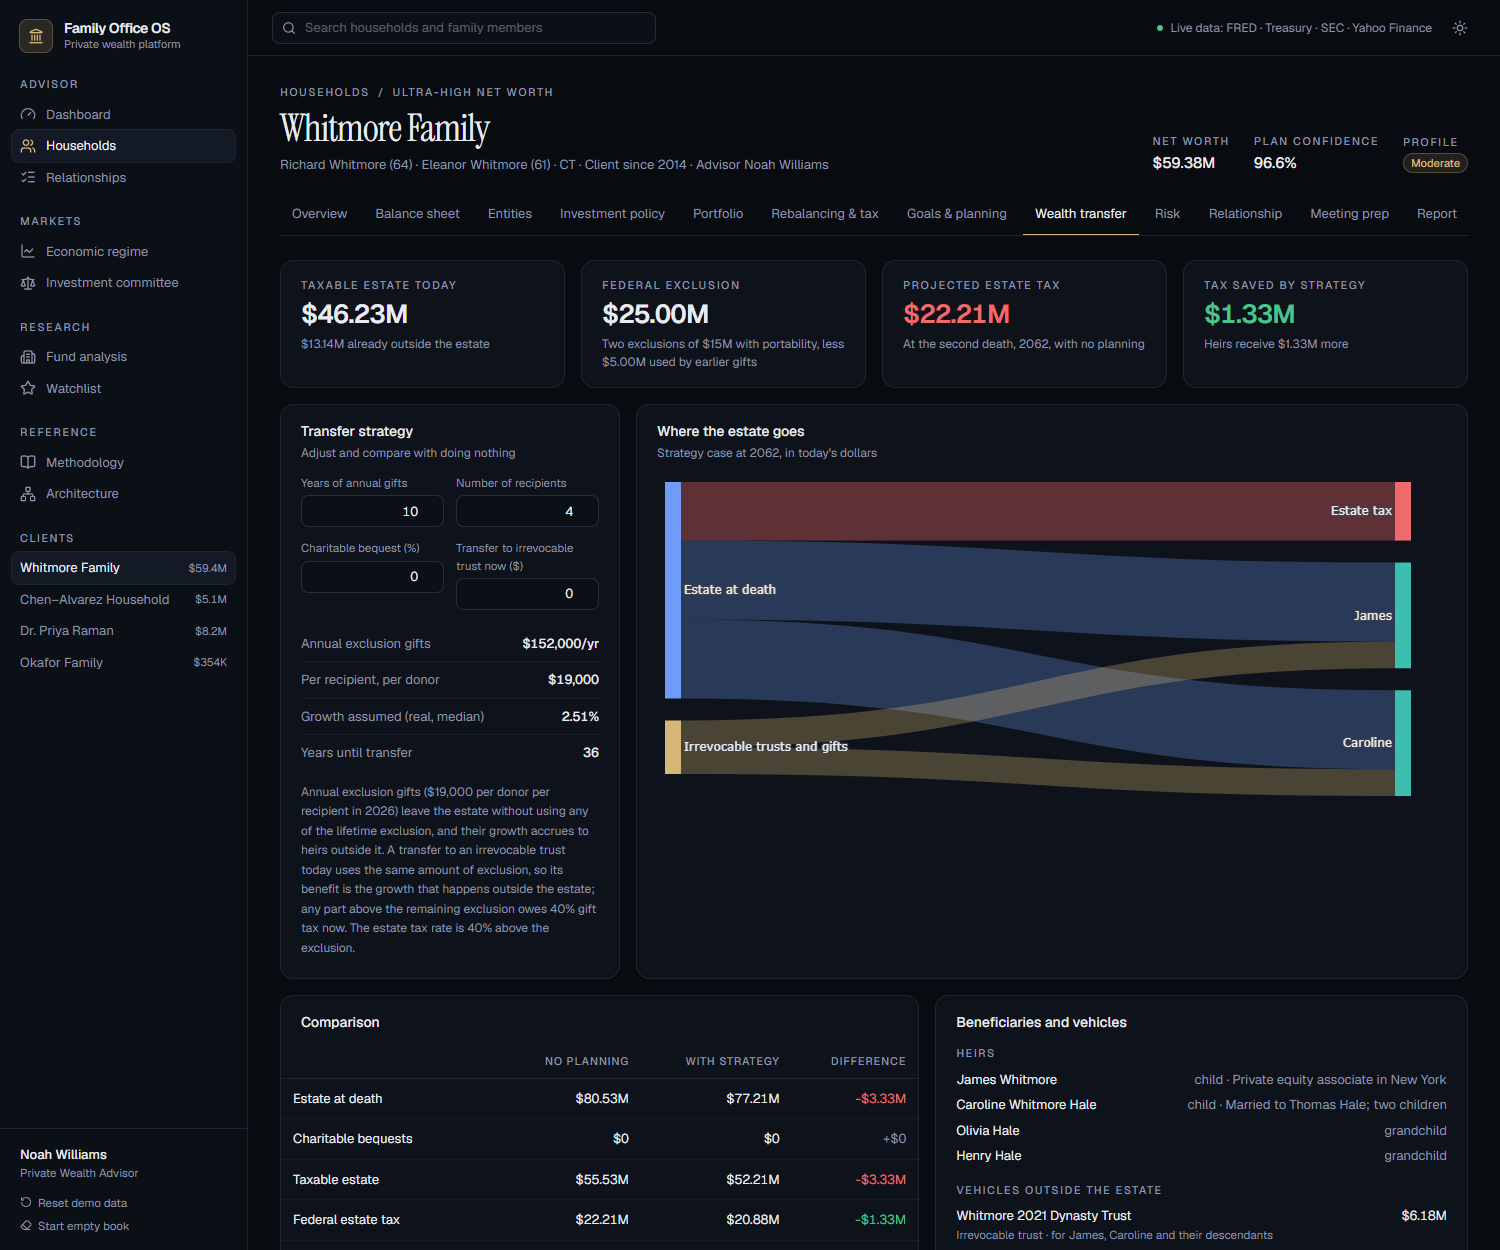
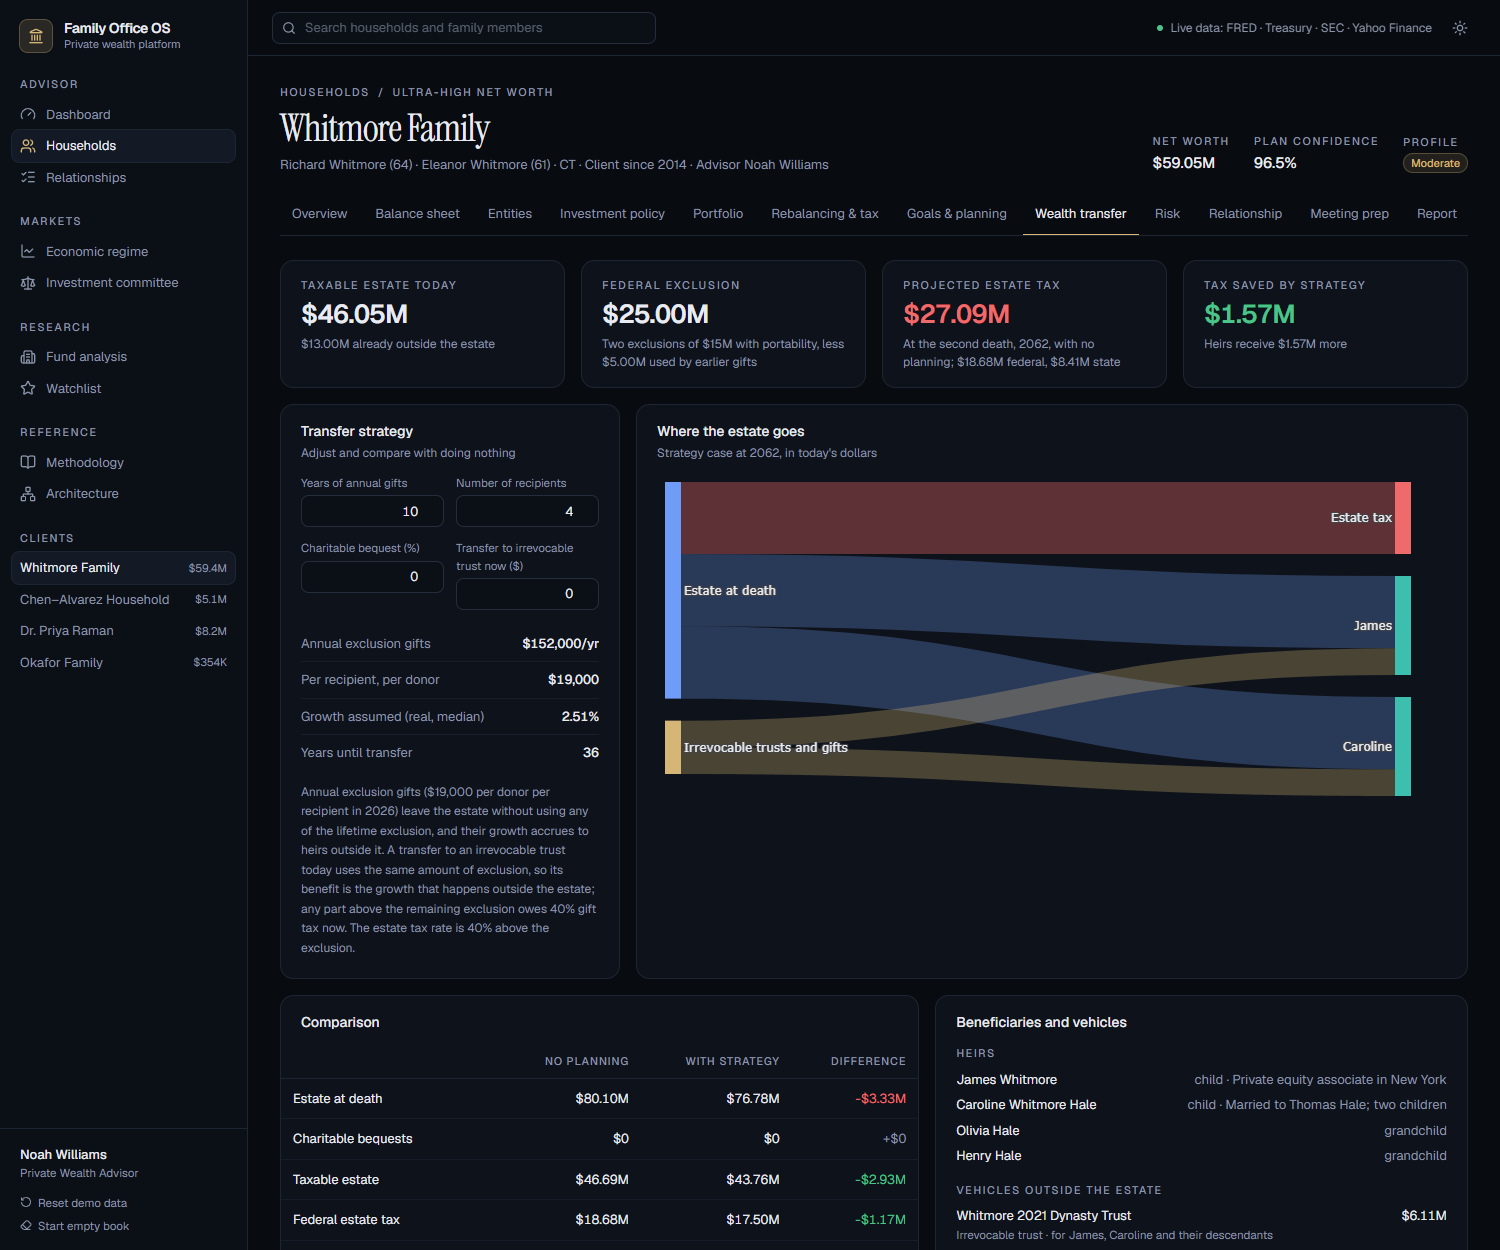
fix: connecticut estate tax, consistent heir asset growth

diff --git a/app/households/[id]/estate/page.tsx b/app/households/[id]/estate/page.tsx
@@ -23,7 +23,7 @@ export default function Estate() {
   const heirsNet = s.toHeirs - s.outsideEstate;
   const each = direct.length ? 1 / direct.length : 1;
   const links = [
-    { s: 0, t: 2, v: s.tax, color: "rgba(239,107,107,0.35)" },
+    { s: 0, t: 2, v: s.federalTax + s.stateTax, color: "rgba(239,107,107,0.35)" },
     { s: 0, t: 3, v: s.toCharity, color: "rgba(165,139,234,0.35)" },
     ...direct.map((_, i) => ({ s: 0, t: 4 + i, v: heirsNet * each, color: "rgba(111,156,246,0.28)" })),
     ...direct.map((_, i) => ({ s: 1, t: 4 + i, v: s.outsideEstate * each, color: "rgba(214,182,118,0.3)" })),
@@ -40,7 +40,7 @@ export default function Estate() {
       <div className="grid gap-4 sm:grid-cols-2 xl:grid-cols-4">
         <Stat label="Taxable estate today" value={money(v.estate)} sub={`${money(e.excluded)} already outside the estate`} />
         <Stat label="Federal exclusion" value={money(e.exclusion - e.used)} sub={`${e.married ? "Two exclusions of $15M with portability" : "One $15M exclusion"}${e.used ? `, less ${money(e.used)} used by earlier gifts` : ""}`} />
-        <Stat label="Projected estate tax" value={money(b.tax)} tone={b.tax > 0 ? "neg" : "pos"} sub={`At the second death, ${e.deathYear}, with no planning`} />
+        <Stat label="Projected estate tax" value={money(b.tax)} tone={b.tax > 0 ? "neg" : "pos"} sub={`At the second death, ${e.deathYear}, with no planning${b.stateTax ? `; ${money(b.federalTax)} federal, ${money(b.stateTax)} state` : ""}`} />
         <Stat label="Tax saved by strategy" value={money(b.tax - s.tax)} tone={b.tax - s.tax > 0 ? "pos" : undefined} sub={s.toHeirs >= b.toHeirs ? `Heirs receive ${money(s.toHeirs - b.toHeirs)} more` : `Heirs receive ${money(b.toHeirs - s.toHeirs)} less; charity receives ${money(s.toCharity)}`} />
       </div>
 
@@ -73,16 +73,16 @@ export default function Estate() {
             <tbody>
               {([
                 ["Estate at death", b.gross, s.gross], ["Charitable bequests", b.toCharity, s.toCharity], ["Taxable estate", b.taxable, s.taxable],
-                ["Federal estate tax", b.tax, s.tax], ["Assets outside the estate", b.outsideEstate, s.outsideEstate], ["Total to heirs", b.toHeirs, s.toHeirs],
+                ["Federal estate tax", b.federalTax, s.federalTax], ["State estate tax", b.stateTax, s.stateTax], ...(s.giftTax ? [["Gift tax on the trust transfer", b.giftTax, s.giftTax] as const] : []), ["Assets outside the estate", b.outsideEstate, s.outsideEstate], ["Total to heirs", b.toHeirs, s.toHeirs],
               ] as const).map(([k, x, y]) => (
                 <tr key={k} className={k === "Total to heirs" ? "font-semibold" : ""}>
                   <td>{k}</td><td className="r">{money(x)}</td><td className="r">{money(y)}</td>
-                  <td className={`r ${k === "Federal estate tax" ? (y < x ? "text-pos" : "") : y > x ? "text-pos" : y < x ? "text-neg" : "text-muted-foreground"}`}>{y - x >= 0 ? "+" : ""}{money(y - x)}</td>
+                  <td className={`r ${/tax/i.test(k) ? (y < x ? "text-pos" : "") : y > x ? "text-pos" : y < x ? "text-neg" : "text-muted-foreground"}`}>{y - x >= 0 ? "+" : ""}{money(y - x)}</td>
                 </tr>
               ))}
             </tbody>
           </table>
-          <div className="px-5 pb-4"><Note>Projection grows the estate at the plan&apos;s median real return until the later of the two planning ages and holds the exclusion constant in real terms (it is indexed to inflation from 2027). Savings, retirement spending (after tax) and goals follow the same year-by-year cash flows as the goal plan, at its median return. State estate taxes, such as Connecticut&apos;s, are not modeled.</Note></div>
+          <div className="px-5 pb-4"><Note>Projection grows the estate at the plan&apos;s median real return until the later of the two planning ages and holds the exclusion constant in real terms (it is indexed to inflation from 2027). Savings, retirement spending (after tax) and goals follow the same year-by-year cash flows as the goal plan, at its median return. Connecticut estate tax is 12% above a $15M exemption that cannot be shared between spouses, capped at $15M, and is deducted before federal tax; other states&apos; estate and inheritance taxes are not modeled.</Note></div>
         </Panel>
 
         <Panel title="Beneficiaries and vehicles">

diff --git a/lib/montecarlo.ts b/lib/montecarlo.ts
@@ -3,7 +3,7 @@ import { compound, INFLATION, portfolioStats, type Weights } from "./cma";
 import { thisYear } from "./format";
 import { clients, primary, retireYear, spendable, targetWeights, type Valuation } from "./household";
 import { COLLEGE_INFLATION, ESTATE, rmdAge, UNIFORM_LIFETIME } from "./reference";
-import { grossWithdrawal, socialSecurity, type WithdrawalMix } from "./tax";
+import { estateTaxes, grossWithdrawal, socialSecurity, type WithdrawalMix } from "./tax";
 import type { Goal, Household, LifeEvent, Person } from "./types";
 
 // Seeded generator so a plan gives the same answer every time it is opened.
@@ -42,6 +42,8 @@ export type Plan = {
   /** Part of heirAssets inside the taxable estate, and the estate tax exclusion still available. */
   heirTaxable: number;
   exclusion: number;
+  state: string;
+  taxableGifts: number;
   retirementGoal?: string;
   shocks: Record<number, { forced?: number; realDrag?: number; haircut?: number }>;
   retireYear: number;
@@ -144,6 +146,7 @@ export function buildPlan(h: Household, v: Valuation, events: LifeEvent[] = h.ev
   return {
     start, years, wealth: v.investable, weights: w, mean: s.mean - h.ips.advisoryFee, vol: s.vol, inflation: INFLATION, flows,
     legacy: h.goals.find((g) => g.type === "legacy"), heirAssets: v.netWorth - v.investable - v.charitable,
+    state: h.state, taxableGifts: h.exemptionUsed ?? 0,
     heirTaxable: Math.max(0, v.estate - v.investable), exclusion: Math.max(0, ESTATE.exclusion * (people.length > 1 && h.marital === "Married" ? 2 : 1) - (h.exemptionUsed ?? 0)), retirementGoal: h.goals.find((g) => g.type === "retirement")?.id, shocks, retireYear: retire,
   };
 }
@@ -153,6 +156,7 @@ export type Result = ReturnType<typeof simulate>;
 export function simulate(plan: Plan, runs = 5000, seed = 11) {
   const { start, years, mean, vol, inflation } = plan;
   const rand = gaussian(mulberry32(seed));
+  const heirGrowth = (1 + medianReal(plan)) ** years;
   // Lognormal with the requested arithmetic mean and volatility.
   const s2 = Math.log(1 + (vol / (1 + mean)) ** 2), mu = Math.log(1 + mean) - s2 / 2, sd = Math.sqrt(s2);
 
@@ -190,9 +194,11 @@ export function simulate(plan: Plan, runs = 5000, seed = 11) {
       paths[k + 1][n] = w;
     }
     goalIds.forEach((g) => !failed.has(g) && wins.set(g, wins.get(g)! + 1));
-    // Heirs receive what is left after 40% estate tax on the taxable estate above the remaining exclusion.
-    const estateTax = ESTATE.rate * Math.max(0, w + plan.heirTaxable - plan.exclusion);
-    if (plan.legacy && w + plan.heirAssets - estateTax >= plan.legacy.amount) legacyWins++;
+    // Heirs receive what is left after federal and state estate tax. Assets outside the portfolio grow at the plan's
+    // median real return, as on the wealth transfer page.
+    const later = heirGrowth;
+    const estateTax = estateTaxes(w + plan.heirTaxable * later, plan.exclusion, plan.state, plan.taxableGifts).total;
+    if (plan.legacy && w + plan.heirAssets * later - estateTax >= plan.legacy.amount) legacyWins++;
     if (depleted != null) depletedAt.push(depleted);
     ending[n] = w;
   }
@@ -239,7 +245,7 @@ export const medianReal = (p: Plan) => (1 + compound(p.mean, p.vol)) / (1 + p.in
 export function withdrawalSuccess(weights: Weights, fee: number, rate: number, horizon: number, runs = 1500) {
   const s = portfolioStats(weights);
   const plan: Plan = {
-    start: 0, years: horizon, wealth: 1, heirAssets: 0, heirTaxable: 0, exclusion: Infinity, weights, mean: s.mean - fee, vol: s.vol, inflation: INFLATION, shocks: {}, retireYear: 0,
+    start: 0, years: horizon, wealth: 1, heirAssets: 0, heirTaxable: 0, exclusion: Infinity, state: "", taxableGifts: 0, weights, mean: s.mean - fee, vol: s.vol, inflation: INFLATION, shocks: {}, retireYear: 0,
     flows: Array.from({ length: horizon }, (_, y) => ({ year: y, amount: -rate, label: "Retirement spending", goal: "r", priority: 1 })), retirementGoal: "r",
   };
   return simulate(plan, runs, 3).success;

diff --git a/app/methodology/page.tsx b/app/methodology/page.tsx
@@ -38,7 +38,7 @@ const MODELS: [string, string[]][] = [
   ["Education, housing and estate", [
     `College cost = College Board 2025–26 published tuition and fees + a ${d(LIVING_COST_ASSUMPTION)} living-cost assumption, inflating ${p(COLLEGE_INFLATION)} a year. Savings compound at the median return of a 60/20/20 mix after a 0.5% fee, and the monthly contribution solves for the level saving, at the monthly rate equivalent to that annual return, that funds the present value of costs at the first tuition bill.`,
     "Home affordability applies the 28/36 rule: housing cost ≤ 28% of gross monthly income and all debt payments ≤ 36%, at the latest 30-year mortgage rate from FRED, with property tax and insurance at 1.5% of value a year.",
-    `The estate is projected to the second death at the plan's median real return, net of the plan's yearly savings, after-tax retirement spending and goals. Estate tax = 40% × (estate at the second death − charitable bequests − remaining exclusion). The exclusion is ${d(ESTATE.exclusion)} per person (doubled for married couples through portability), less any exclusion already used by taxable gifts. A transfer to an irrevocable trust uses exclusion dollar for dollar, with 40% gift tax on any excess. Annual exclusion gifts of ${d(ESTATE.annualGift)} per donor per recipient leave the estate and compound for heirs.`,
+    `The estate is projected to the second death at the plan's median real return, net of the plan's yearly savings, after-tax retirement spending and goals. Estate tax = 40% × (estate at the second death − charitable bequests − remaining exclusion). The exclusion is ${d(ESTATE.exclusion)} per person (doubled for married couples through portability), less any exclusion already used by taxable gifts. A transfer to an irrevocable trust uses exclusion dollar for dollar, with 40% gift tax on any excess. Connecticut estate tax (12% above a $15M exemption, no portability, capped at $15M) is computed first and deducted for federal purposes. Annual exclusion gifts of ${d(ESTATE.annualGift)} per donor per recipient leave the estate and compound for heirs.`,
   ]],
   ["Investment policy engine", [
     "Every IPS rule is evaluated live: allocation ranges, expected volatility, loss in the worst historical stress, single-security limit (funds exempt), cash reserve, illiquid share, expected return after fees and the annual review date. Each is Compliant, Watch (within about 10% of the limit) or Breach.",

diff --git a/lib/tax.ts b/lib/tax.ts
@@ -1,5 +1,5 @@
 // Federal income tax, capital gains rates and Social Security benefits under 2026 rules.
-import { BRACKETS, LTCG, NIIT, SENIOR, SS_TAX_THRESHOLDS, SSA, STANDARD_DEDUCTION } from "./reference";
+import { BRACKETS, ESTATE, LTCG, NIIT, SENIOR, SS_TAX_THRESHOLDS, SSA, STANDARD_DEDUCTION, STATE_ESTATE } from "./reference";
 import type { FilingStatus, Household, Person } from "./types";
 
 /** Tax on ordinary taxable income (after deductions), with the marginal rate. */
@@ -99,6 +99,17 @@ export function taxableBenefits(benefits: number, otherIncome: number, filing: F
   if (provisional <= base) return 0;
   if (provisional <= adjusted) return Math.min(benefits / 2, (provisional - base) / 2);
   return Math.min(0.85 * benefits, 0.85 * (provisional - adjusted) + Math.min(benefits / 2, (adjusted - base) / 2));
+}
+
+/**
+ * Estate taxes at death on a taxable estate (after charitable bequests). State tax is computed first on the state's own
+ * exemption; it is deductible for federal purposes, and federal tax is 40% above the remaining federal exclusion.
+ */
+export function estateTaxes(taxableEstate: number, federalLeft: number, state: string, taxableGifts: number) {
+  const st = STATE_ESTATE[state];
+  const stateTax = st ? Math.min(st.cap, st.rate * Math.max(0, taxableEstate - Math.max(0, st.exemption - taxableGifts))) : 0;
+  const federal = ESTATE.rate * Math.max(0, taxableEstate - stateTax - federalLeft);
+  return { state: stateTax, federal, total: stateTax + federal };
 }
 
 /** Standard deduction including the additional amount and the 2025–2028 senior deduction for each person 65 or older. */

diff --git a/lib/planning.ts b/lib/planning.ts
@@ -4,6 +4,7 @@ import { sum, thisYear } from "./format";
 import { clients, type Valuation } from "./household";
 import { medianReal, type Plan } from "./montecarlo";
 import { COLLEGE_INFLATION, ESTATE, LIVING_COST_ASSUMPTION, TUITION, type CollegeType } from "./reference";
+import { estateTaxes } from "./tax";
 import type { Household } from "./types";
 
 /**
@@ -96,9 +97,9 @@ export function estate(h: Household, v: Valuation, plan: Plan, o: { giftingYears
       outside = (outside + g) * (1 + r);
     }
     const toCharity = inside * charity;
-    const taxable = Math.max(0, inside - toCharity - remaining);
-    const tax = taxable * ESTATE.rate + giftTax;
-    return { gross: inside, toCharity, taxable, tax, giftTax, toHeirs: inside - toCharity - taxable * ESTATE.rate + outside, outsideEstate: outside };
+    const t = estateTaxes(inside - toCharity, remaining, h.state, used + trust);
+    const taxable = Math.max(0, inside - toCharity - t.state - remaining);
+    return { gross: inside, toCharity, taxable, federalTax: t.federal, stateTax: t.state, tax: t.total + giftTax, giftTax, toHeirs: inside - toCharity - t.total + outside, outsideEstate: outside };
   };
   const annual = ESTATE.annualGift * donors * (o.donees ?? 0);
   const baseline = run(0, 0, 0, 0);

diff --git a/lib/attention.ts b/lib/attention.ts
@@ -27,7 +27,7 @@ export function attention(h: Household, v: Valuation, o: { checks: Check[]; plan
   if (h.beneficiaryReview && -daysUntil(h.beneficiaryReview) > 3 * 365)
     out.push({ severity: "medium", title: "Beneficiary designations not reviewed in over 3 years", detail: `Last confirmed ${h.beneficiaryReview}`, tab: "estate" });
 
-  if (o.estateTax && o.estateTax > 0) out.push({ severity: "medium", title: `Projected federal estate tax of ${money(o.estateTax)}`, detail: "Before any gifting or trust strategy", tab: "estate" });
+  if (o.estateTax && o.estateTax > 0) out.push({ severity: "medium", title: `Projected estate tax of ${money(o.estateTax)}`, detail: "Before any gifting or trust strategy", tab: "estate" });
 
   // Liquidity events in the next 24 months, other than regular savings and retirement spending.
   const soon = o.plan.flows.filter((f) => f.amount < 0 && f.label !== "Retirement spending" && f.year <= thisYear() + 2);

diff --git a/lib/reference.ts b/lib/reference.ts
@@ -44,6 +44,14 @@ export const LIMITS = { k401: 24_500, k401CatchUp: 8_000, k401CatchUp60to63: 11_
 /** Estate and gift tax, 2026. The basic exclusion is $15M per person and is indexed for inflation from 2027. */
 export const ESTATE = { exclusion: 15_000_000, annualGift: 19_000, rate: 0.4 };
 
+/**
+ * State estate taxes for the states in the book, 2026. Connecticut: 12% flat above an exemption equal to the federal basic
+ * exclusion, with no portability between spouses, lifetime taxable gifts counted against it, and the tax capped at $15M.
+ */
+export const STATE_ESTATE: Record<string, { exemption: number; rate: number; cap: number }> = {
+  CT: { exemption: 15_000_000, rate: 0.12, cap: 15_000_000 },
+};
+
 /** Social Security, 2026 (SSA). PIA = 90% of AIME up to the first bend point, 32% to the second, 15% above. */
 export const SSA = { bend1: 1_286, bend2: 7_749, wageBase: 184_500, cola: 0.028, fullRetirementAge: 67 };
 

diff --git a/app/households/[id]/page.tsx b/app/households/[id]/page.tsx
@@ -278,7 +278,7 @@ export default function Overview() {
               ["Inside the taxable estate", money(v.estate)],
               ["Already outside the estate", money(est.excluded)],
               [`Projected estate at ${est.deathYear}`, money(est.baseline.gross)],
-              ["Federal estate tax, no planning", est.baseline.tax ? <span key="t" className="text-neg">{money(est.baseline.tax)}</span> : "None"],
+              ["Estate tax, no planning", est.baseline.tax ? <span key="t" className="text-neg">{money(est.baseline.tax)}</span> : "None"],
               ["Heirs named", String(h.people.filter((p) => ["child", "grandchild", "other"].includes(p.relationship)).length)],
             ] as const).map(([k, val]) => <div key={k} className="flex justify-between gap-4 py-2"><dt className="text-muted-foreground">{k}</dt><dd className="num">{val}</dd></div>)}
           </dl>

diff --git a/lib/risk.ts b/lib/risk.ts
@@ -57,7 +57,7 @@ export function heatMap(h: Household, v: Valuation, o: { retirementProbability?:
   const top = v.policy ? topVal / v.policy : 0;
   const yrs = yearsToRetire(h), equity = w.us + w.intl;
   const variable = h.liabilities.filter((l) => l.kind === "credit-line").reduce((s, l) => s + l.balance, 0);
-  const exclusion = ESTATE.exclusion * (h.marital === "Married" ? 2 : 1);
+  const exclusion = Math.max(1, ESTATE.exclusion * (h.marital === "Married" ? 2 : 1) - (h.exemptionUsed ?? 0));
   const cpi = o.cpi ?? 3;
 
   return [
